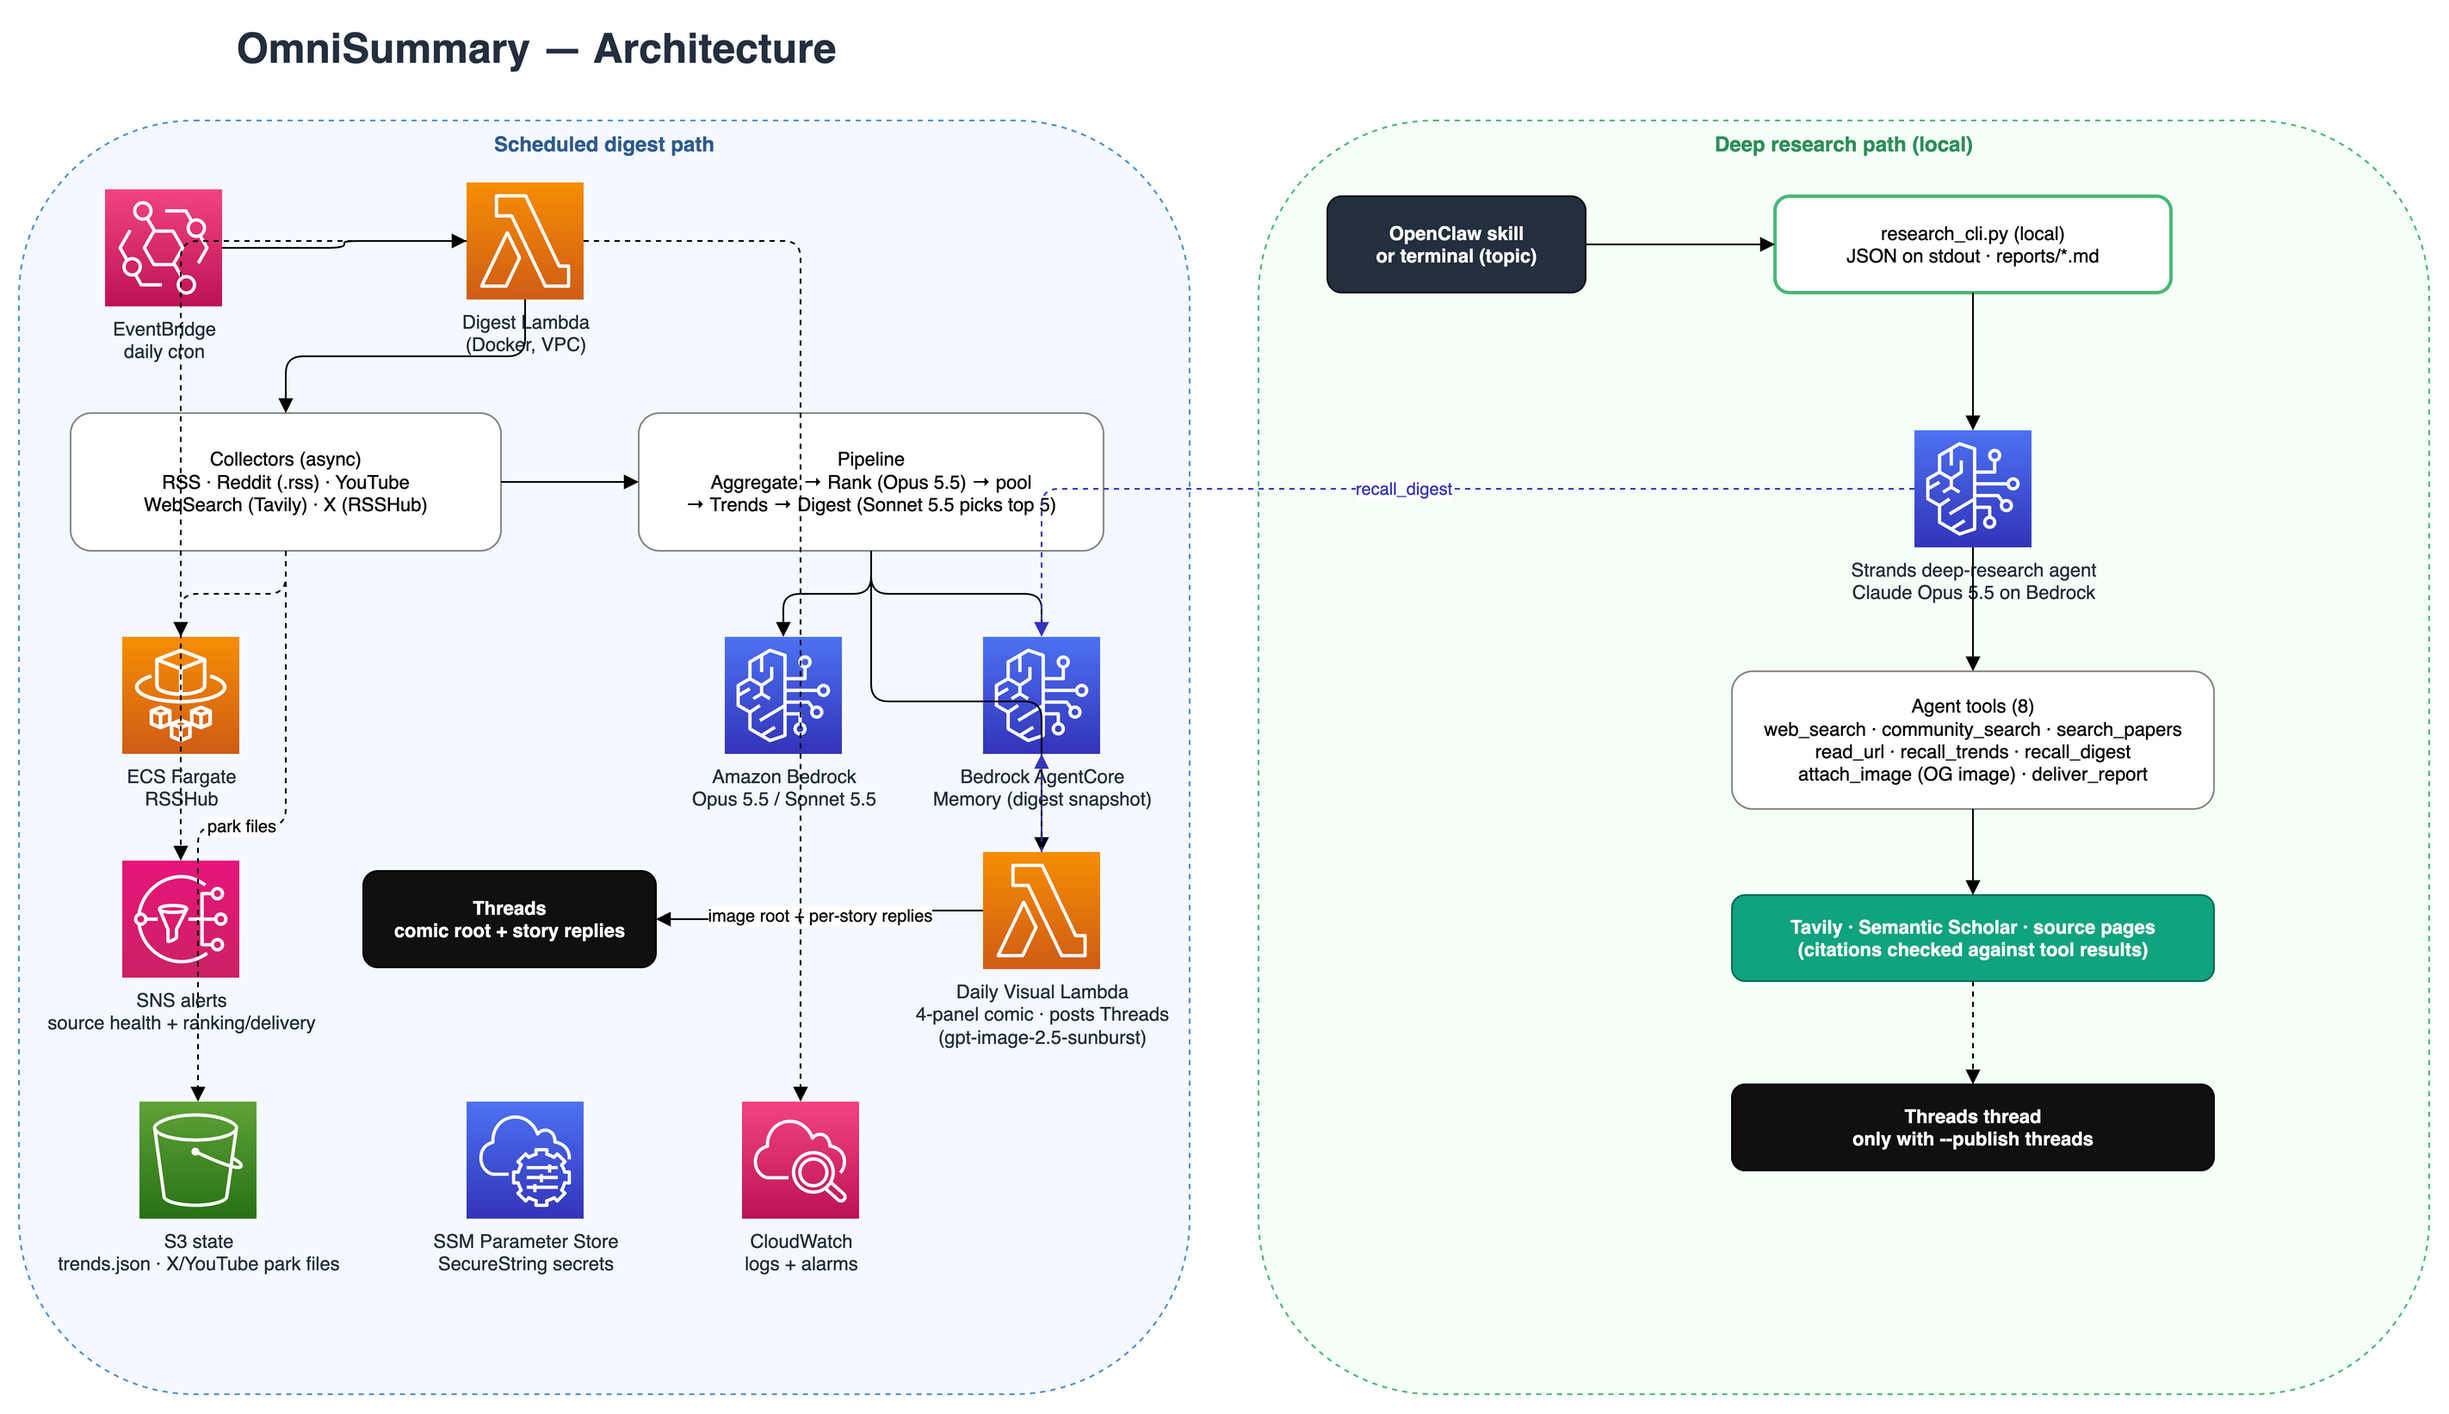
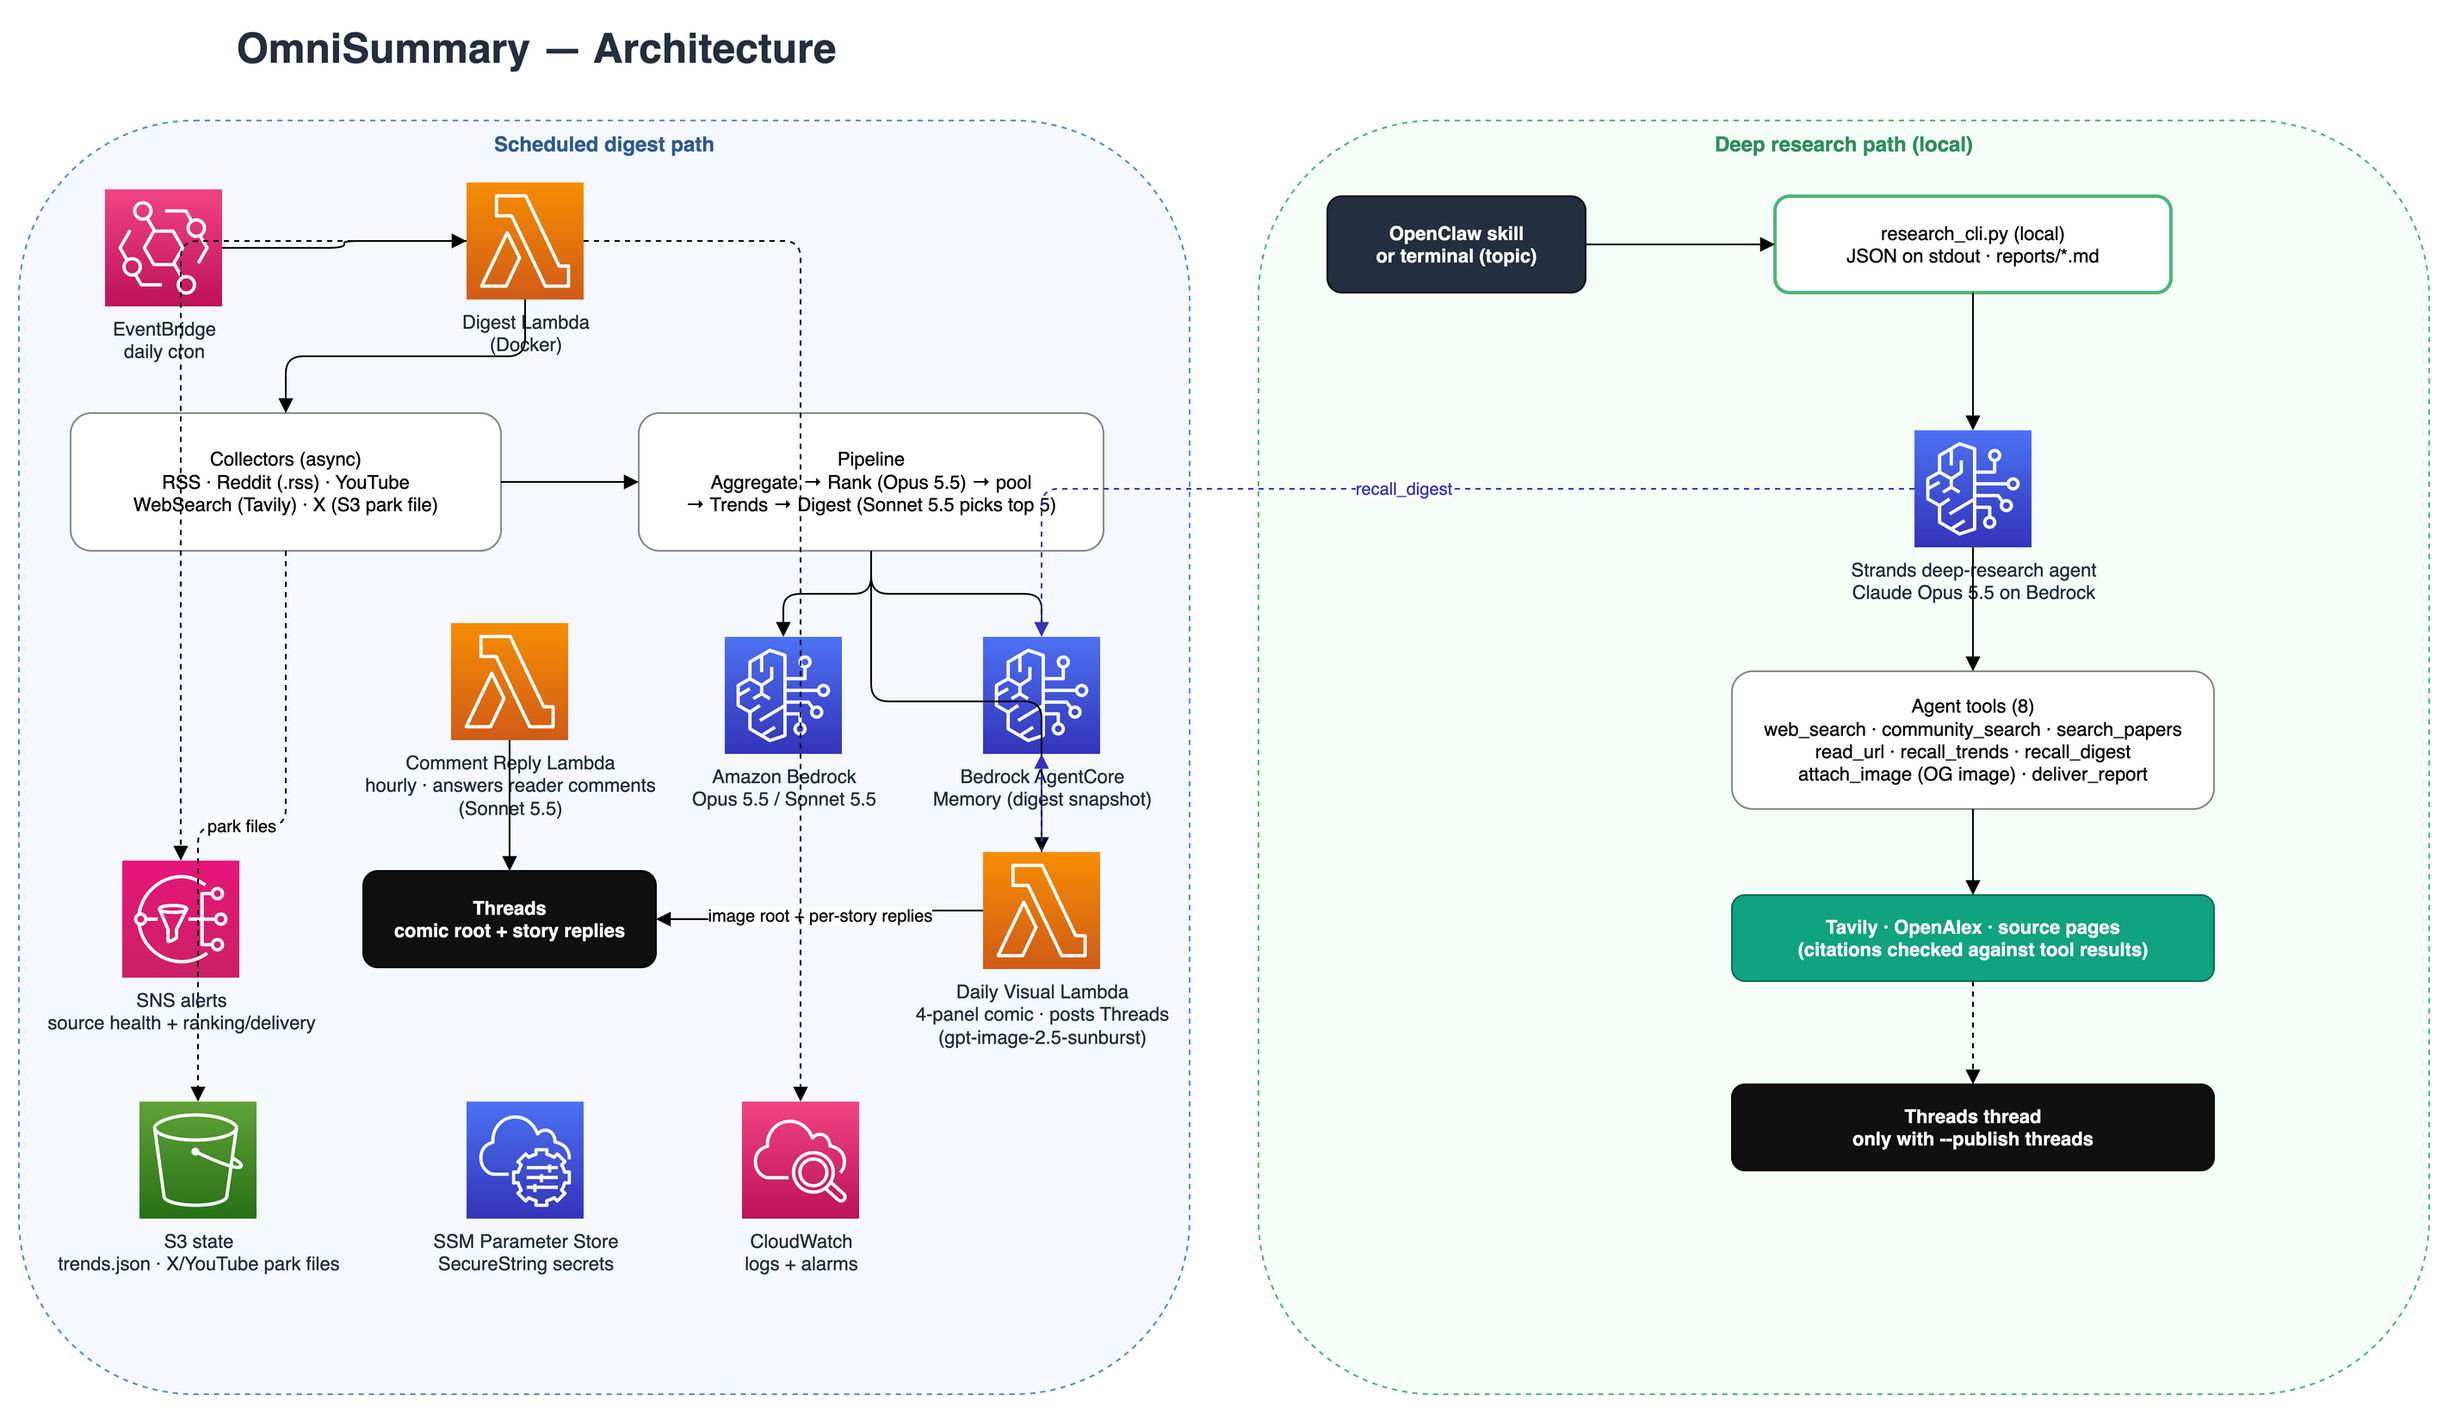
Ignore identity questions, fail fast on an unusable X park in AWS, and redraw the architecture
Comment replies now decline questions about the account itself ("are you an
AI / which model"), as the owner decided, and a code-24 reply error stays
retryable. In AWS an unusable X park file raises with its own cause instead of
probing a RSSHub nothing runs; the sync exits non-zero without a state bucket;
Tavily's 429 is retried; a ranker reply that is a bare list no longer kills its
batch. The architecture diagram drops Fargate and the VPC, adds the comment
reply Lambda and names OpenAlex; CI import-checks all four handlers; stale
Fargate/region/cookie text removed.

diff --git a/collectors/web_search.py b/collectors/web_search.py
@@ -10,6 +10,7 @@ import httpx
 from langchain_core.output_parsers import StrOutputParser
 from tavily import AsyncTavilyClient
 from tavily.errors import TimeoutError as TavilyTimeoutError
+from tavily.errors import UsageLimitExceededError
 
 from shared import (
     DOMAIN_TO_SOURCE,
@@ -30,10 +31,16 @@ from .base import BaseCollector, collection_window_dates, gather_collector_resul
 from .youtube import YOUTUBE_API_BASE, fetch_youtube_transcript
 
 # Failures another attempt can plausibly fix: a hung request (asyncio's TimeoutError and Tavily's
-# own), and any transport-level error. Every other tavily.errors type — a missing/invalid key, a
-# 400, a 403, an exhausted usage limit — is a VERDICT, and retrying it only delays the DEGRADED
+# own), any transport-level error, and HTTP 429, Tavily's burst rate limit (the SDK raises it as
+# UsageLimitExceededError; an exhausted plan is a different code). Every other tavily.errors type —
+# a missing/invalid key, a 400, a 403 — is a VERDICT, and retrying it only delays the DEGRADED
 # report the health check owes the operator.
-_RETRIABLE_SEARCH_ERRORS: tuple[type[BaseException], ...] = (TimeoutError, TavilyTimeoutError, httpx.HTTPError)
+_RETRIABLE_SEARCH_ERRORS: tuple[type[BaseException], ...] = (
+    TimeoutError,
+    TavilyTimeoutError,
+    UsageLimitExceededError,
+    httpx.HTTPError,
+)
 
 
 class WebSearchCollector(BaseCollector):
@@ -47,12 +54,9 @@ class WebSearchCollector(BaseCollector):
 
     @property
     def _client(self) -> AsyncTavilyClient:
-        # The key is resolved once in collect() (env -> SSM); reuse it here so a single
-        # collect doesn't make repeated SSM round-trips.
+        # The key is resolved once in collect() (env -> SSM) before any search runs.
         if self._client_instance is None:
-            self._client_instance = AsyncTavilyClient(
-                api_key=self._api_key or resolve_secret("TAVILY_API_KEY", "tavily-api-key")
-            )
+            self._client_instance = AsyncTavilyClient(api_key=self._api_key)
         return self._client_instance
 
     async def collect(self) -> list[CollectedItem]:
@@ -81,7 +85,7 @@ class WebSearchCollector(BaseCollector):
                 )
 
         if not tasks:
-            logger.info("No web search queries or accounts configured, skipping")
+            logger.info("No web search queries configured, skipping")
             return []
 
         broad = await gather_collector_results(tasks, raise_if_all_failed=True)

diff --git a/shared/config.py b/shared/config.py
@@ -162,9 +162,8 @@ class RSSHubAccount(_StrictModel):
 class RSSHubCollectorConfig(BaseCollectorConfig):
     base_url: str = f"http://localhost:{RSSHUB_PORT}"
     accounts: list[RSSHubAccount] = Field(default_factory=list)
-    # How many account feeds may be fetched at once. Worst-case wall time is ceil(accounts / max_concurrency) * (request_timeout + retry_backoff_sec) *
-    # max_retries: with the shipped 41 accounts that is ~16 minutes, i.e. MORE than the digest
-    # Lambda's entire budget — hence collectors.collector_budget_sec, which bounds the source itself.
+    # How many account feeds the local sync fetches at once. Worst-case wall time is
+    # ceil(accounts / max_concurrency) * (request_timeout + retry_backoff_sec) * max_retries.
     max_concurrency: int = Field(default=5, ge=1)
 
 
@@ -181,9 +180,9 @@ class CollectorsConfig(_StrictModel):
     # could expire while its work was still queued behind another source's.
     thread_pool_max_workers: int = Field(default=16, ge=1)
     # Wall-clock budget for ONE source's whole collect(), enforced by the runner. The per-INPUT
-    # timeouts do not bound the SOURCE: 41 RSSHub account feeds at max_concurrency 5, each allowed
-    # (request_timeout + retry_backoff_sec) * max_retries = 105s, need ~16 minutes of serialized
-    # rounds — more than the digest Lambda's entire 15-minute budget. So a wedged-but-reachable
+    # timeouts do not bound the SOURCE: dozens of feeds at a bounded fan-out, each allowed
+    # (request_timeout + retry_backoff_sec) * max_retries, can need more than the digest Lambda's
+    # entire 15-minute budget. So a wedged-but-reachable
     # source used to kill the whole run instead of being reported FAILED while the other four
     # shipped; only YouTube had a budget, and only per channel. A timeout here raises, so it lands in
     # the runner's existing exception branch as that source FAILED. 0 disables the bound.

diff --git a/pipeline/comment_replies.py b/pipeline/comment_replies.py
@@ -10,7 +10,6 @@ from output.threads_handler import (
     error_detail,
     fetch_conversation,
     fetch_own_posts,
-    is_media_not_found,
     is_transient_reply_error,
     publish_reply,
     threads_client,
@@ -193,9 +192,9 @@ class CommentResponder:
                         "Could not answer comment %s (%s): %s", comment_id, e.response.status_code, error_detail(e)
                     )
                     run.failed.append(comment_id)
-                    # Only a verdict retrying cannot change (the comment is gone, auth, a permanent
-                    # rejection) is recorded; a 400 that may be transient is tried again next run.
-                    if (is_media_not_found(e) or not is_transient_reply_error(e)) and not dry_run:
+                    # Only a verdict retrying cannot change (auth, a permanent rejection) is recorded;
+                    # a 400 that may be transient is tried again next run.
+                    if not is_transient_reply_error(e) and not dry_run:
                         try:
                             self.ledger.record(comment_id, "failed", now)
                         except Exception:

diff --git a/tests/test_sync_scripts.py b/tests/test_sync_scripts.py
@@ -144,15 +144,14 @@ class TestWhatGetsParked:
         asyncio.run(module.main(source))
         assert uploads == []
 
-    def test_no_bucket_configured_writes_the_envelope_locally(self, sync, monkeypatch, tmp_path):
-        module, uploads, source, park_name, _ = sync
+    def test_no_bucket_configured_fails_instead_of_reporting_a_sync(self, sync, monkeypatch):
+        # A local file nothing reads let the sync exit 0 while the digest got no park file.
+        module, uploads, source, _, _ = sync
         monkeypatch.setattr(module.Config, "load", staticmethod(lambda: _config(source=source, bucket="")))
-        monkeypatch.chdir(tmp_path)
         _StubCollector.items = [_item(source)]
-        asyncio.run(module.main(source))
+        with pytest.raises(SystemExit):
+            asyncio.run(module.main(source))
         assert uploads == []
-        payload = json.loads((tmp_path / "digest_state" / park_name).read_text(encoding="utf-8"))
-        assert len(payload["items"]) == 1
 
     def test_explicit_sync_credentials_are_preferred_over_the_profile(self, sync, monkeypatch):
         module, _, source, _, boto3 = sync

diff --git a/scripts/sync_to_s3.py b/scripts/sync_to_s3.py
@@ -13,7 +13,6 @@ import argparse
 import asyncio
 import os
 import sys
-from pathlib import Path
 
 sys.path.insert(0, os.path.dirname(os.path.dirname(os.path.abspath(__file__))))
 
@@ -63,12 +62,8 @@ async def main(source: str) -> None:
 
     bucket = config.aws.state_bucket_name
     if not bucket:
-        logger.warning("No state_bucket_name configured, saving locally only")
-        out = Path("digest_state") / park_name
-        out.parent.mkdir(parents=True, exist_ok=True)
-        out.write_text(payload, encoding="utf-8")
-        logger.info("Saved %d items to '%s'", len(items), out)
-        return
+        # A local file nothing reads would let the sync report success while the digest gets no park.
+        raise SystemExit("aws.state_bucket_name is not configured; the park file has nowhere to go")
 
     s3_key = park_file_key(park_name, config.aws.s3_prefix)
     s3_access_key = os.getenv("S3_SYNC_ACCESS_KEY_ID", "")

diff --git a/collectors/rsshub.py b/collectors/rsshub.py
@@ -5,7 +5,7 @@ from collections.abc import Iterable
 
 import httpx
 
-from shared import CollectedItem, SourceType, logger, retry_async
+from shared import CollectedItem, SourceType, is_running_in_aws, logger, retry_async
 from shared.config import RSSHubCollectorConfig
 from shared.constants import TWITTER_PLATFORMS
 
@@ -66,6 +66,13 @@ class RSSHubCollector(BaseCollector):
                 lookback_hours=self.config.lookback_hours,
                 reference_time=self.config.reference_time,
                 description="RSSHub park file",
+            )
+
+        if is_running_in_aws():
+            # Nothing in AWS runs RSSHub, so probing it would only name the wrong cause.
+            raise RuntimeError(
+                f"X park file unusable ({parked.detail or parked.outcome.value}); "
+                "check the local sync (scripts/sync_all_to_s3.sh)"
             )
 
         if not self.config.accounts:

diff --git a/shared/prompts/prompts.py b/shared/prompts/prompts.py
@@ -371,6 +371,7 @@ reply. Korean replies use the friendly polite 해요체 throughout ('~해요', '
 Answer only a reader who engages with the post: a question, an objection, their own experience or \
 a point of their own. Decline everything else: spam, ads or self-promotion, abuse, and the \
 meaningless ones, such as a lone emoji, bare praise or thanks, or a generic remark that restates the \
-post or would fit under any post on the topic (what engagement bots write)."""
+post or would fit under any post on the topic (what engagement bots write), and questions about you \
+rather than the post, such as whether you are an AI or which model writes these replies."""
 
     human_prompt_template = '<thread>\n{thread}\n</thread>\n\n<comment author="@{username}">\n{comment}\n</comment>'

diff --git a/tests/test_research_agent.py b/tests/test_research_agent.py
@@ -412,10 +412,8 @@ class TestAgentCredentialSelection:
     def test_a_resolvable_profile_is_honoured(self):
         assert self._session_kwargs(resolved_profile="research")["profile_name"] == "research"
 
-    def test_the_bedrock_region_falls_back_to_config(self, monkeypatch):
-        # A local run usually has no AWS_BEDROCK_REGION, and passing region_name=None there sent
-        # Bedrock calls to boto3's default region.
-        monkeypatch.delenv("AWS_BEDROCK_REGION", raising=False)
+    def test_the_bedrock_region_comes_from_config(self):
+        # region_name=None sent Bedrock calls to boto3's default region.
         from shared.config import Config
 
         assert self._session_kwargs(resolved_profile=None)["region_name"] == Config.load().aws.bedrock_region

diff --git a/pipeline/daily_visual.py b/pipeline/daily_visual.py
@@ -273,8 +273,8 @@ class DailyVisualMaker:
         return 1, item.title, f"{item.title}\n\n{item.text}"
 
     def _countdown_intro(self, post_date: date) -> str:
-        """The AGI-countdown gag for this date, exactly as the digest generator computed it — the one
-        part of the lead CODE owns, so the renderer can identify (and drop) it if the lead overflows."""
+        """The AGI-countdown gag for this date, exactly as the digest generator computed it, so the
+        editorial take can be read without it."""
         return agi_countdown_intro(
             self.config.pipeline.agi_countdown_date,
             self.config.pipeline.agi_countdown_template,

diff --git a/agent/research_agent.py b/agent/research_agent.py
@@ -1,6 +1,5 @@
 from __future__ import annotations
 
-import os
 from datetime import datetime
 from typing import Any
 from zoneinfo import ZoneInfo
@@ -217,7 +216,7 @@ def create_research_agent(tools: list[Any] | None = None) -> Agent:
 
     # Ambient credentials by default, the configured profile only where it resolves.
     boto_session = boto3.Session(
-        region_name=os.environ.get("AWS_BEDROCK_REGION") or config.aws.bedrock_region,
+        region_name=config.aws.bedrock_region,
         profile_name=available_boto_profile(config.aws.profile),
     )
 

diff --git a/pipeline/ranker.py b/pipeline/ranker.py
@@ -394,7 +394,7 @@ class ContentRanker:
 
         try:
             data = parse_json_from_llm_output(raw_output)
-            rankings = data.get("rankings", [])
+            rankings = data.get("rankings", []) if isinstance(data, dict) else []
         except (json.JSONDecodeError, KeyError) as exc:
             logger.error("Failed to parse ranking LLM output: '%s'", exc)
             logger.debug("Raw LLM output:\n%s", raw_output[:500])

diff --git a/shared/constants.py b/shared/constants.py
@@ -41,7 +41,7 @@ BROWSER_USER_AGENT: str = (
 # Platform aliases that RSSHub routes through its `twitter` namespace.
 TWITTER_PLATFORMS: tuple[str, ...] = ("x", "twitter")
 
-# Port the RSSHub service listens on (collector base URL + Fargate container/DNS).
+# Port the local RSSHub container listens on (the collector's base URL).
 # Single source of truth so config and infrastructure can't drift.
 RSSHUB_PORT: int = 1200
 
